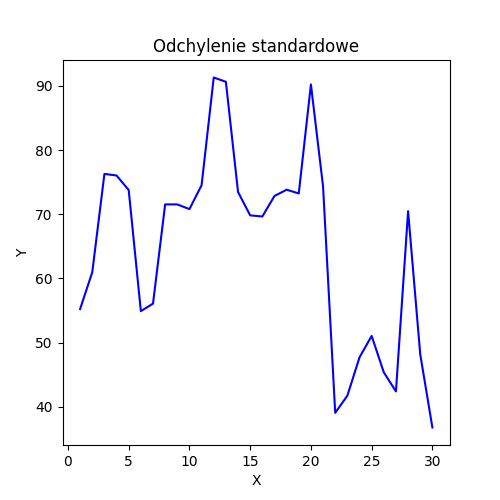
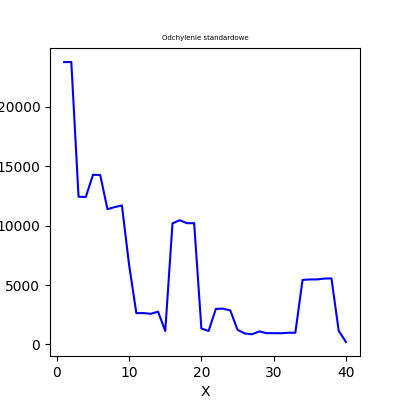
GUI for project 2

diff --git a/project1/Gui/gui_real_chromosome.py b/project1/Gui/gui_real_chromosome.py
@@ -18,8 +18,8 @@ RIGHT_FRAME_TITLE_COLOR = "#104FAF"
 RIGHT_FRAME_FONT_COLOR = "#1872FB"
 
 SELECTION_TYPE = ["Selekcja najlepszych", "Koło ruletki", "Selekcja turniejowa"]
-CROSSING_TYPE = ["Jednopunktowe", "Dwupunktowe", "Trzypunktowe", "Jednorodne"]
-MUTATION_TYPE = ["Brzegowa", "Jednopunktowa", "Dwupunktowa"]
+CROSSING_TYPE = ["Arytmetyczne", "Heurystyczne"]
+MUTATION_TYPE = ["Brzegowa", "Jednopunktowa", "Dwupunktowa", "Równomierna"]
 
 
 class MainApplication(tk.Frame):
@@ -37,7 +37,7 @@ class MainApplication(tk.Frame):
         self.create_frames()
 
     def configure_gui(self):
-        self.master.title("OE - Projekt nr 1")
+        self.master.title("OE - Projekt nr 2")
         self.master.geometry("%ix%i" % (self.width, self.height))
         self.master.configure(bg=LEFT_FRAME_BACKGROUND_COLOR)
         self.master.resizable(0, 0)
@@ -132,31 +132,37 @@ class MainApplication(tk.Frame):
         self.mutation_option.set("-- Nie wybrano --")
         self.mutation_option.grid(row=9, column=0, padx=(0, 18), sticky="E")
 
+        self.mutation_min = self.create_spinbox(-100, 100, 1, 11, "normal")
+        self.mutation_min.grid(row=10, column=0, padx=(0, 112), sticky="E")
+
+        self.mutation_max = self.create_spinbox(-100, 100, 1, 11, "normal")
+        self.mutation_max.grid(row=10, column=0, padx=(0, 10), sticky="E")
+
         self.mutation_precision = self.create_spinbox(0, 10, 0.1, 28, "normal")
-        self.mutation_precision.grid(row=10, column=0, padx=(0, 10), sticky="E")
+        self.mutation_precision.grid(row=11, column=0, padx=(0, 10), sticky="E")
 
         self.inversion_precision = self.create_spinbox(0, 10, 0.1, 28, "normal")
-        self.inversion_precision.grid(row=11, column=0, padx=(0, 10), sticky="E")
+        self.inversion_precision.grid(row=12, column=0, padx=(0, 10), sticky="E")
 
         self.num_of_function_variables = self.create_spinbox(0, 1000, 1, 28, "normal")
-        self.num_of_function_variables.grid(row=12, column=0, padx=(0, 10), sticky="E")
+        self.num_of_function_variables.grid(row=13, column=0, padx=(0, 10), sticky="E")
 
         self.tournament_size = self.create_spinbox(0, 1000, 1, 28, "normal")
-        self.tournament_size.grid(row=13, column=0, padx=(0, 10), sticky="E")
+        self.tournament_size.grid(row=14, column=0, padx=(0, 10), sticky="E")
 
         self.population_procent = self.create_spinbox(0, 100, 1, 28, "normal")
-        self.population_procent.grid(row=14, column=0, padx=(0, 10), sticky="E")
+        self.population_procent.grid(row=15, column=0, padx=(0, 10), sticky="E")
 
         self.elit_strategy_population_procent = self.create_spinbox(0, 100, 1, 28, "disable")
-        self.elit_strategy_population_procent.grid(row=15, column=0, padx=(0, 10), sticky="E")
+        self.elit_strategy_population_procent.grid(row=16, column=0, padx=(0, 10), sticky="E")
 
         self.elit_strategy_population_size = self.create_spinbox(0, 1000, 1, 28, "disable")
-        self.elit_strategy_population_size.grid(row=16, column=0, padx=(0, 10), sticky="E")
+        self.elit_strategy_population_size.grid(row=17, column=0, padx=(0, 10), sticky="E")
 
         self.button2 = Button(self.right_scrollable_frame, text="Start", bg=RIGHT_FRAME_FONT_COLOR, fg="white",
                               borderless=1,
                               takefocus=0, width=round(self.width * 0.55 - 100), command=self.plot)
-        self.button2.grid(row=20, columnspan=2, pady=15, sticky="S")
+        self.button2.grid(row=21, columnspan=2, pady=15, sticky="S")
 
     def set_lables_right_frame(self):
         self.crate_title_label(0)
@@ -168,13 +174,14 @@ class MainApplication(tk.Frame):
         self.create_label("Krzyżowanie", 7)
         self.create_label("Prawdopodobieństwo krzyżowania", 8)
         self.create_label("Mutacja", 9)
-        self.create_label("Prawdopodobieństwo mutacji", 10)
-        self.create_label("Prawdopodobieństwo inwersji", 11)
-        self.create_label("Liczba zmiennych funkcji", 12)
-        self.create_label("Wielkość turnieju", 13)
-        self.create_label("Procent osobników", 14)
-        self.create_radio_button("Procent osobników (Strategia elitarna)", 1, self.method, 15, 1, "W")
-        self.create_radio_button("Liczba osobników (Strategia elitarna)", 2, self.method, 16, 1, "W")
+        self.create_label("Przedział mutacji", 10)
+        self.create_label("Prawdopodobieństwo mutacji", 11)
+        self.create_label("Prawdopodobieństwo inwersji", 12)
+        self.create_label("Liczba zmiennych funkcji", 13)
+        self.create_label("Wielkość turnieju", 14)
+        self.create_label("Procent osobników", 15)
+        self.create_radio_button("Procent osobników (Strategia elitarna)", 1, self.method, 16, 1, "W")
+        self.create_radio_button("Liczba osobników (Strategia elitarna)", 2, self.method, 17, 1, "W")
 
     def crate_title_label(self, row):
         return tk.Label(self.right_scrollable_frame,
@@ -195,7 +202,7 @@ class MainApplication(tk.Frame):
     def create_time_label(self, text):
         self.time_label = tk.Label(self.right_scrollable_frame, text="Obliczenia wykonały się w : %.5g sekund" % text,
                                    font="system-ui 12 bold",
-                                   bg=RIGHT_FRAME_BACKGROUND_COLOR, fg=RIGHT_FRAME_FONT_COLOR).grid(row=19, column=0,
+                                   bg=RIGHT_FRAME_BACKGROUND_COLOR, fg=RIGHT_FRAME_FONT_COLOR).grid(row=20, column=0,
                                                                                                     padx=20, pady=10,
                                                                                                     sticky="W")
 
@@ -234,6 +241,8 @@ class MainApplication(tk.Frame):
         cross_type = self.crossing_option.get()
         cross_precision = self.crossing_precision.get()
         mut_type = self.mutation_option.get()
+        mut_min = self.mutation_min.get()
+        mut_max = self.mutation_max.get()
         mut_precision = self.mutation_precision.get()
         invers_precision = self.inversion_precision.get()
         fun_variables_num = self.num_of_function_variables.get()
@@ -248,7 +257,7 @@ class MainApplication(tk.Frame):
 
         for i in range(len(CROSSING_TYPE)):
             if cross_type == CROSSING_TYPE[i]:
-                cross_type = CrossingType(i + 1)
+                cross_type = CrossingType(i + 5)
 
         for i in range(len(MUTATION_TYPE)):
             if mut_type == MUTATION_TYPE[i]:
@@ -264,6 +273,8 @@ class MainApplication(tk.Frame):
         # print(cross_type)
         # print(cross_precision)
         # print(mut_type)
+        # print(mut_min)
+        # print(mut_max)
         # print(mut_precision)
         # print(invers_precision)
         # print(fun_variables_num)
@@ -274,8 +285,10 @@ class MainApplication(tk.Frame):
 
         return int(epoch_num), int(pop_size), int(fun_variables_num), int(from_x1), int(
             to_x1), float(chrom_precision), select_type, mut_type, cross_type, is_max, float(1), float(
-            mut_precision), float(cross_precision), float(invers_precision), int(tour_size), int(pop_procent), int(
+            mut_precision), float(cross_precision), float(invers_precision), int(mut_min), int(mut_max), int(
+            tour_size), int(pop_procent), int(
             elit_strategy_pop_procent), int(elit_strategy_pop_size)
+
 
     def normal_or_disabled(self):
         if self.method.get() == 1:
@@ -304,12 +317,12 @@ class MainApplication(tk.Frame):
         b = fig_best.add_subplot(111)
         b.plot(x, best, color="blue")
 
-        b.set_title("Wartości funkcji", fontsize=12)
+        b.set_title("Wartości funkcji", fontsize=10)
         b.set_ylabel("Y", fontsize=10)
         b.set_xlabel("X", fontsize=10)
 
         canvas_best = FigureCanvasTkAgg(fig_best, master=self.left_scrollable_frame)
-        canvas_best.get_tk_widget().grid(column=0, row=0)
+        canvas_best.get_tk_widget().grid(column=0, row=0, padx=(25, 0))
         canvas_best.draw()
         fig_best.savefig('../Plots/wartosc_funkcji.png')
 
@@ -319,12 +332,12 @@ class MainApplication(tk.Frame):
         m = fig_mean.add_subplot(111)
         m.plot(x, mean, color="blue")
 
-        m.set_title("Średnie wartości funkcji", fontsize=12)
+        m.set_title("Średnie wartości funkcji", fontsize=10)
         m.set_ylabel("Y", fontsize=10)
         m.set_xlabel("X", fontsize=10)
 
         canvas_mean = FigureCanvasTkAgg(fig_mean, master=self.left_scrollable_frame)
-        canvas_mean.get_tk_widget().grid(column=0, row=1)
+        canvas_mean.get_tk_widget().grid(column=0, row=1, padx=(25, 0))
         canvas_mean.draw()
         fig_mean.savefig('../Plots/srednie_wartosci_funkcji.png')
 
@@ -334,15 +347,14 @@ class MainApplication(tk.Frame):
         s = fig_std.add_subplot(111)
         s.plot(x, std, color="blue")
 
-        s.set_title("Odchylenie standardowe", fontsize=12)
+        s.set_title("Odchylenie standardowe", fontsize=5)
         s.set_ylabel("Y", fontsize=10)
         s.set_xlabel("X", fontsize=10)
 
         canvas_std = FigureCanvasTkAgg(fig_std, master=self.left_scrollable_frame)
-        canvas_std.get_tk_widget().grid(column=0, row=2)
+        canvas_std.get_tk_widget().grid(column=0, row=2, padx=(25, 0))
         canvas_std.draw()
         fig_std.savefig('../Plots/odchylenie_standardowe.png')
-
 
 
 if __name__ == "__main__":

diff --git a/project1/Algorithm/genetic_algorithm.py b/project1/Algorithm/genetic_algorithm.py
@@ -1,20 +1,20 @@
 import numpy as np
-from Algorithm.base import *
-from Algorithm.real_representation_base import Real_Representation_Base
-from Helpers.enums import *
-from Algorithm.selection import *
-from Algorithm.mutation import *
-from Algorithm.crossing import *
-from Algorithm.inversion import *
-from Algorithm.elite_strategy import *
-from Algorithm.beale_function import *
+from project1.Algorithm.base import *
+from project1.Algorithm.real_representation_base import Real_Representation_Base
+from project1.Helpers.enums import *
+from project1.Algorithm.selection import *
+from project1.Algorithm.mutation import *
+from project1.Algorithm.crossing import *
+from project1.Algorithm.inversion import *
+from project1.Algorithm.elite_strategy import *
+from project1.Algorithm.beale_function import *
 
 
 class GeneticAlgorithm:
     def __init__(self, func, num_of_epochs, population_size, num_of_variables, range_min,
                  range_max, precision, selection_type, mutation_type, crossing_type, is_max,
-                 selection_prob, mutation_prob, crossing_prob, inversion_prob,  even_mutation_min=0,
-                 even_mutation_max = 0, tournament_size=0,
+                 selection_prob, mutation_prob, crossing_prob, inversion_prob, even_mutation_min=0,
+                 even_mutation_max=0, tournament_size=0,
                  selection_percent=0, elite_strategy_percent=0, elite_strategy_num=0):
         self.func = func
         self.num_of_epochs = num_of_epochs
@@ -116,17 +116,16 @@ class GeneticAlgorithm:
                                             self.elite_strategy_percent,
                                             self.elite_strategy_num, self.is_max)
 
-
 # lol = GeneticAlgorithm(bale_function, int(50), int(100), int(2), int(-5), int(5), float(0.0001),
 # SelectionType.ROULETTE,
 # MutationType.SINGLE_POINT, CrossingType.SINGLE_POINT,
 # False, float(0.9), float(0.10), float(0.8), float(0.1), int(3), int(80), int(10), int(0))
 
 
-lol = GeneticAlgorithm(bale_function, int(50), int(100), int(2), int(-5), int(5), float(0.0001),
-                       SelectionType.ROULETTE,
-                       MutationType.EVEN, CrossingType.ARITHMETIC,
-                       True, float(0.9), float(0.10), float(0.8), float(0.1), int(-4), int(4), int(3), int(80), int(10), int(0))
-
-xd = lol.run_algorithm()
-print(xd[0])
+# lol = GeneticAlgorithm(bale_function, int(50), int(100), int(2), int(-5), int(5), float(0.0001),
+#                        SelectionType.ROULETTE,
+#                        MutationType.EVEN, CrossingType.ARITHMETIC,
+#                        True, float(0.9), float(0.10), float(0.8), float(0.1), int(-4), int(4), int(3), int(80), int(10), int(0))
+#
+# xd = lol.run_algorithm()
+# print(xd[0])

diff --git a/project1/Algorithm/elite_strategy.py b/project1/Algorithm/elite_strategy.py
@@ -1,4 +1,4 @@
-import Algorithm.selection
+import project1.Algorithm.selection
 
 
 class EliteStrategy:
@@ -6,6 +6,6 @@ class EliteStrategy:
     @staticmethod
     def elite_strategy(pop, evaluated_pop, percent=0, num=0, is_max=True):
         if percent != 0:
-            return Algorithm.selection.Selection.best(pop, evaluated_pop, percent, is_max, 0, True)
+            return project1.Algorithm.selection.Selection.best(pop, evaluated_pop, percent, is_max, 0, True)
         else:
-            return Algorithm.selection.Selection.best(pop, evaluated_pop, 0, is_max, num, True)
+            return project1.Algorithm.selection.Selection.best(pop, evaluated_pop, 0, is_max, num, True)

diff --git a/project1/Algorithm/beale_function.py b/project1/Algorithm/beale_function.py
@@ -2,5 +2,5 @@ import numpy as np
 
 
 def bale_function(x):
-    #return (1.5 - x[0] + x[0] * x[1]) ** 2 + (2.25 - x[0] + x[0] * x[1] ** 2) ** 2 + (2.625 - x[0] + x[0] * x[1] ** 3) ** 2
-    return 100 * np.sqrt(np.fabs(x[1] - 0.01 * (x[0] ** 2))) + 0.01 * np.fabs(x[0] + 10)
+    return (1.5 - x[0] + x[0] * x[1]) ** 2 + (2.25 - x[0] + x[0] * x[1] ** 2) ** 2 + (2.625 - x[0] + x[0] * x[1] ** 3) ** 2
+    #return 100 * np.sqrt(np.fabs(x[1] - 0.01 * (x[0] ** 2))) + 0.01 * np.fabs(x[0] + 10)
